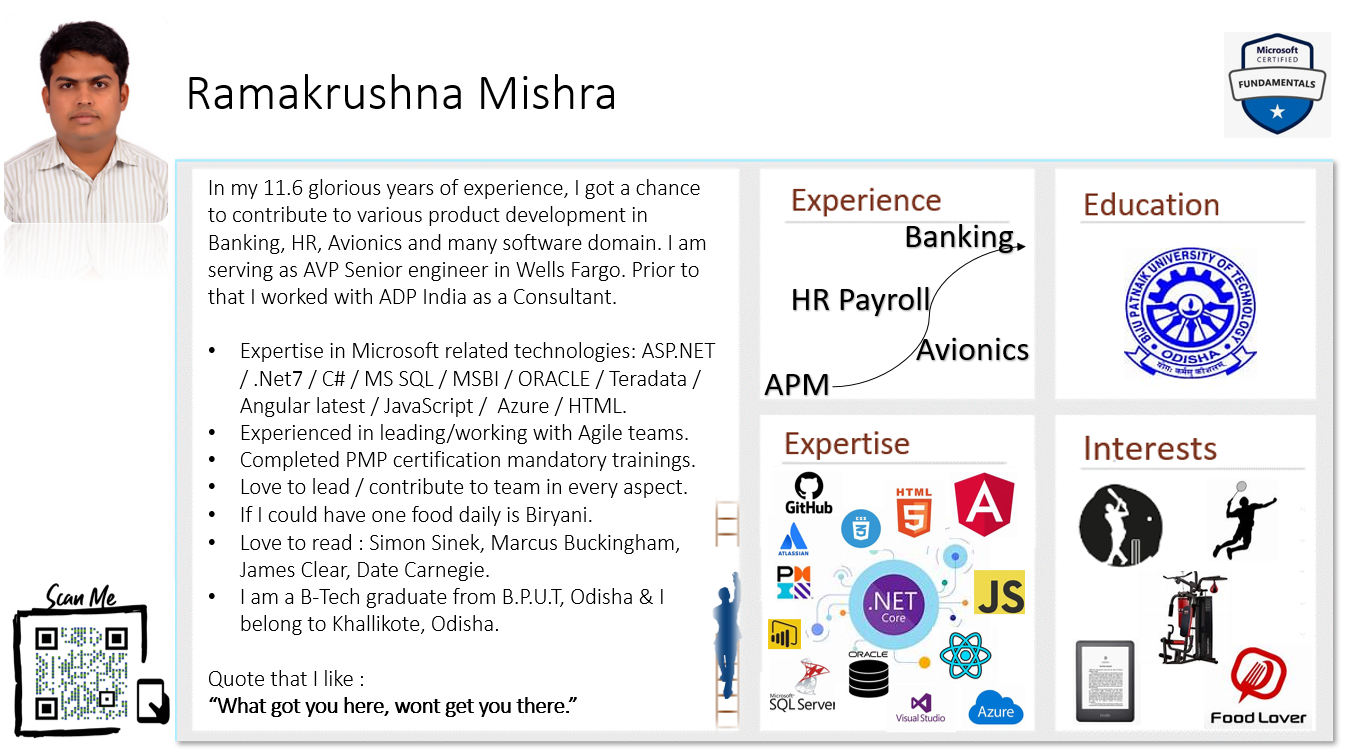
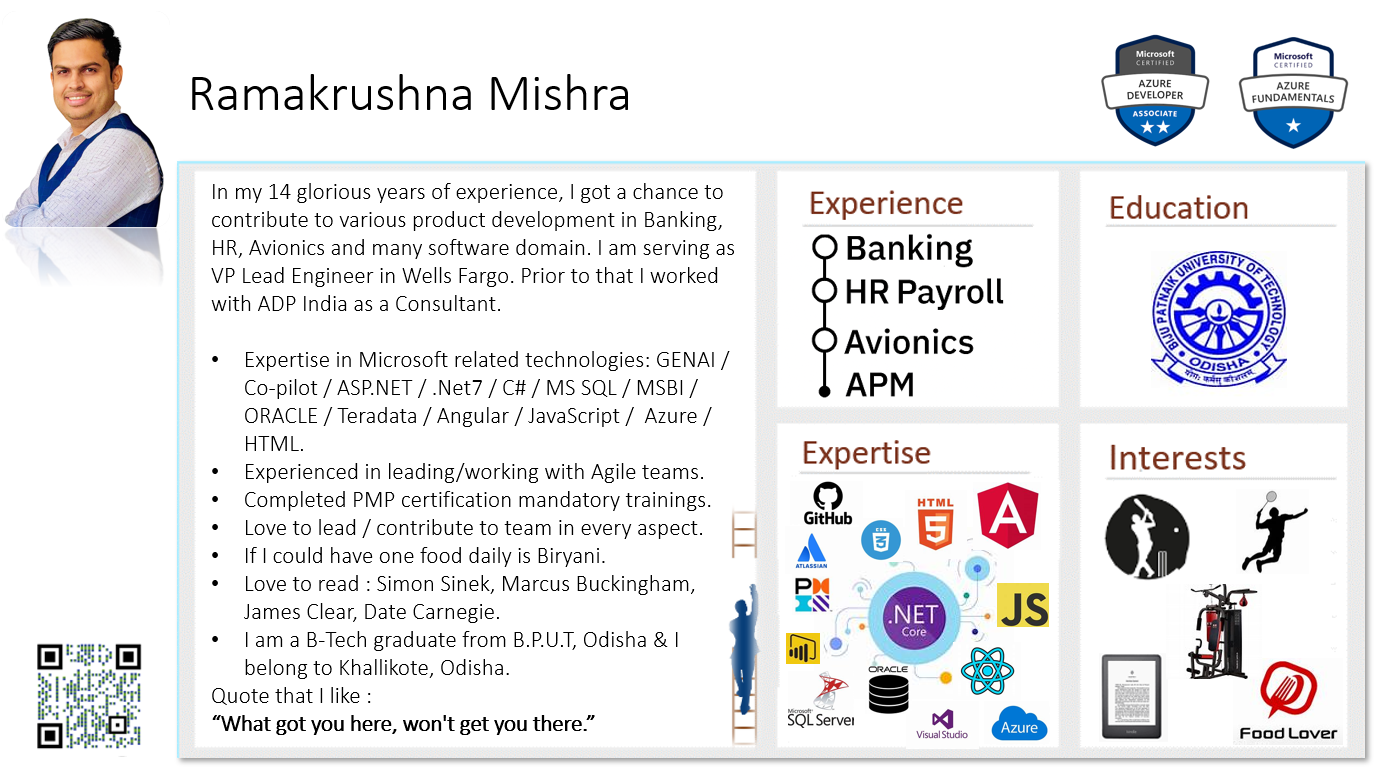
Az305

Changed region(s): [[0.0, 0.0305, 0.9868, 1.0], [0.7709, 0.244, 0.9559, 0.5491], [0.1233, 0.0915, 0.4626, 0.1525]]

diff --git a/readme.md b/readme.md
@@ -59,7 +59,8 @@ Avid book reader and a Biryani enthusiast 🍽
 - My ideas on `Microservice architecture` : [click here](https://github.com/programfiction/programfiction/blob/master/MicroServiceArchitecture.md)
 - `MSBI` implementation with project: [Click here](/msbi/msbi.md)
 - `Az-900` exam prep: [Click here](/az900/az900.md)
-- `Az-204` exam prep: [Click here](/az204/az204.md) `New**`
+- `Az-204` exam prep: [Click here](/az204/az204.md)
+- `Az-305` exam prep: [Click here](/az305/az305.md) `New**`
 - `ABP framework` for designing web scalable web applications with microservices: [Click here](https://github.com/programfiction/programfiction/blob/master/ABPDetails.md)
 
 ##### Angular world
@@ -104,7 +105,7 @@ Completed books | | | |
 ![Win](/Books/winfriends.JPG) |  ![Start](/Books/Startwith.JPG) | ![s](/Books/s.jpg) |  ![s](/Books/s.jpg) | 
 
 
-![Profile](/MyProfile.jpg)
+![Profile](/MyProfile.PNG)
 
 
     

diff --git a/az204/az204.md b/az204/az204.md
@@ -1,7 +1,7 @@
 
 ### MS Az-204 Prep
 
-
+[Prep Links: Microsoft Az-204 Udemy Link](https://www.udemy.com/topic/microsoft-az-204/?utm_source=bing&utm_medium=udemyads&utm_campaign=BG-Search_DSA_Beta_Prof_la.EN_cc.India&campaigntype=Search&portfolio=Bing-India&language=EN&product=Course&test=&audience=DSA&topic=&priority=Beta&utm_content=deal4584&utm_term=_._ag_1327112923136029_._ad__._kw_IT%20en_._de_c_._dm__._pl__._ti_dat-2334744222699522:loc-90_._li_157326_._pd__._&matchtype=b&msclkid=c560b3aa91741bdf586fdbc0f1bfbc0e)
 
 ##### Azure AppService
 5components in Appservice 
